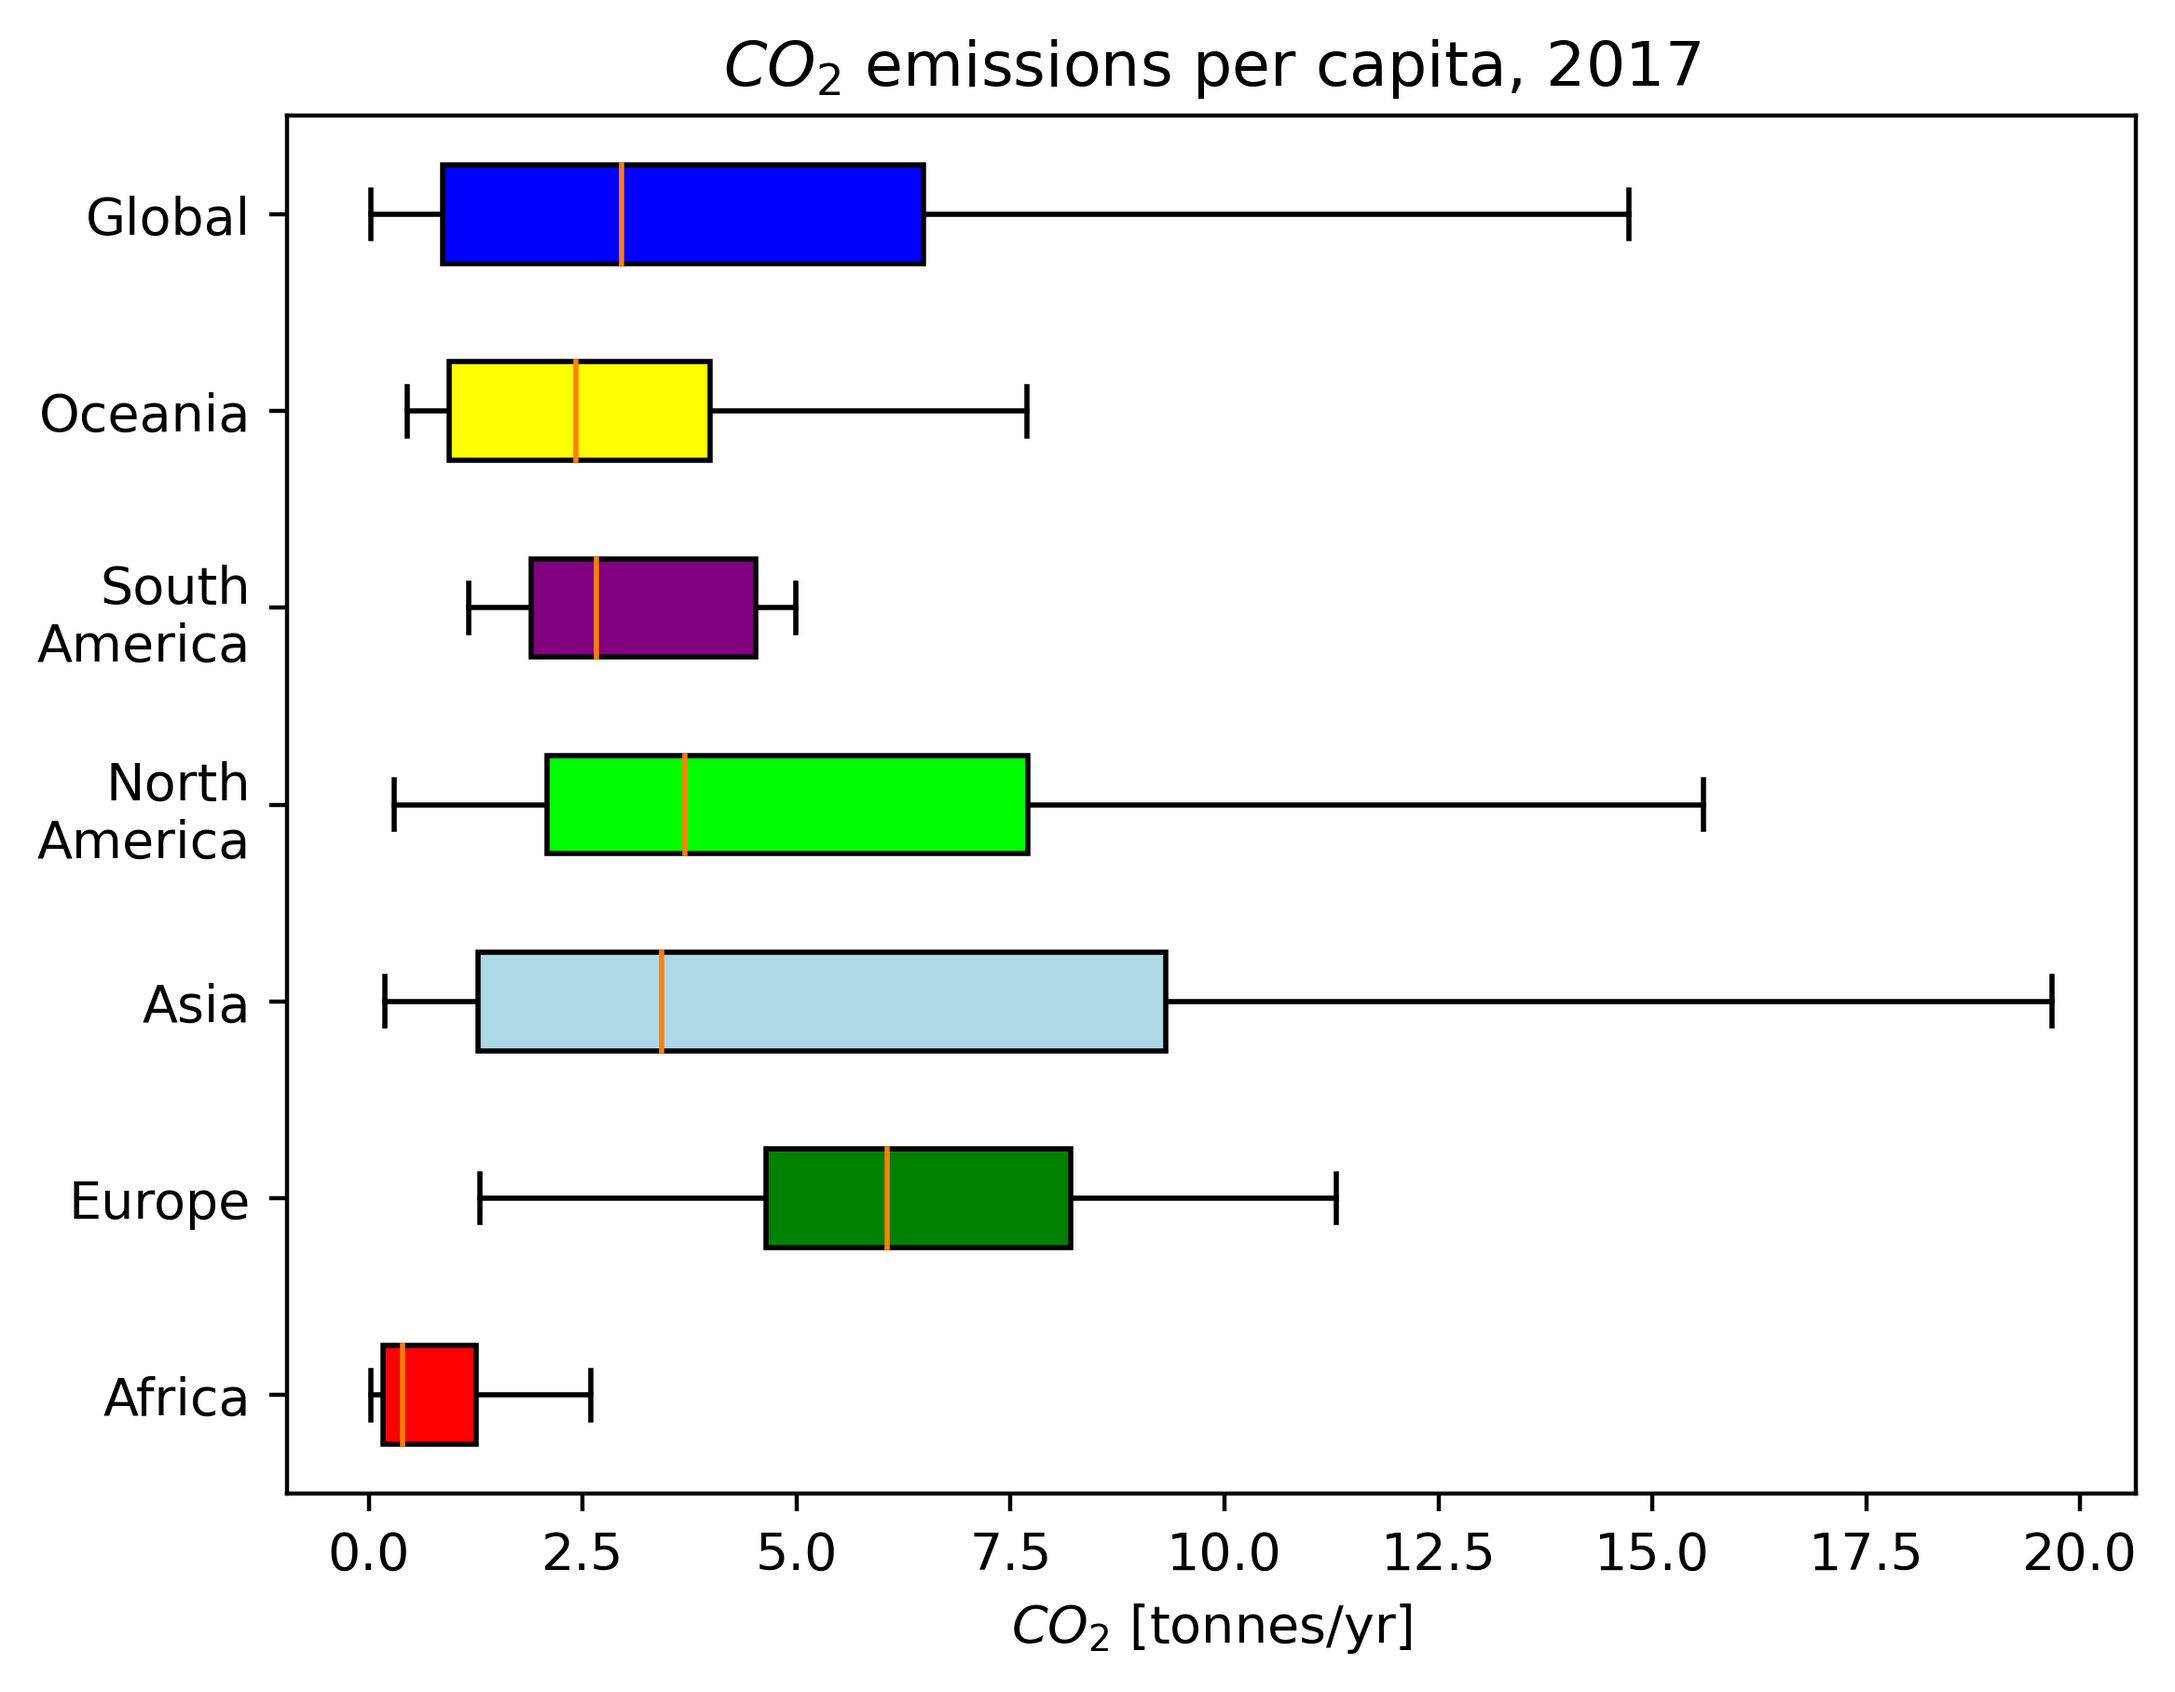
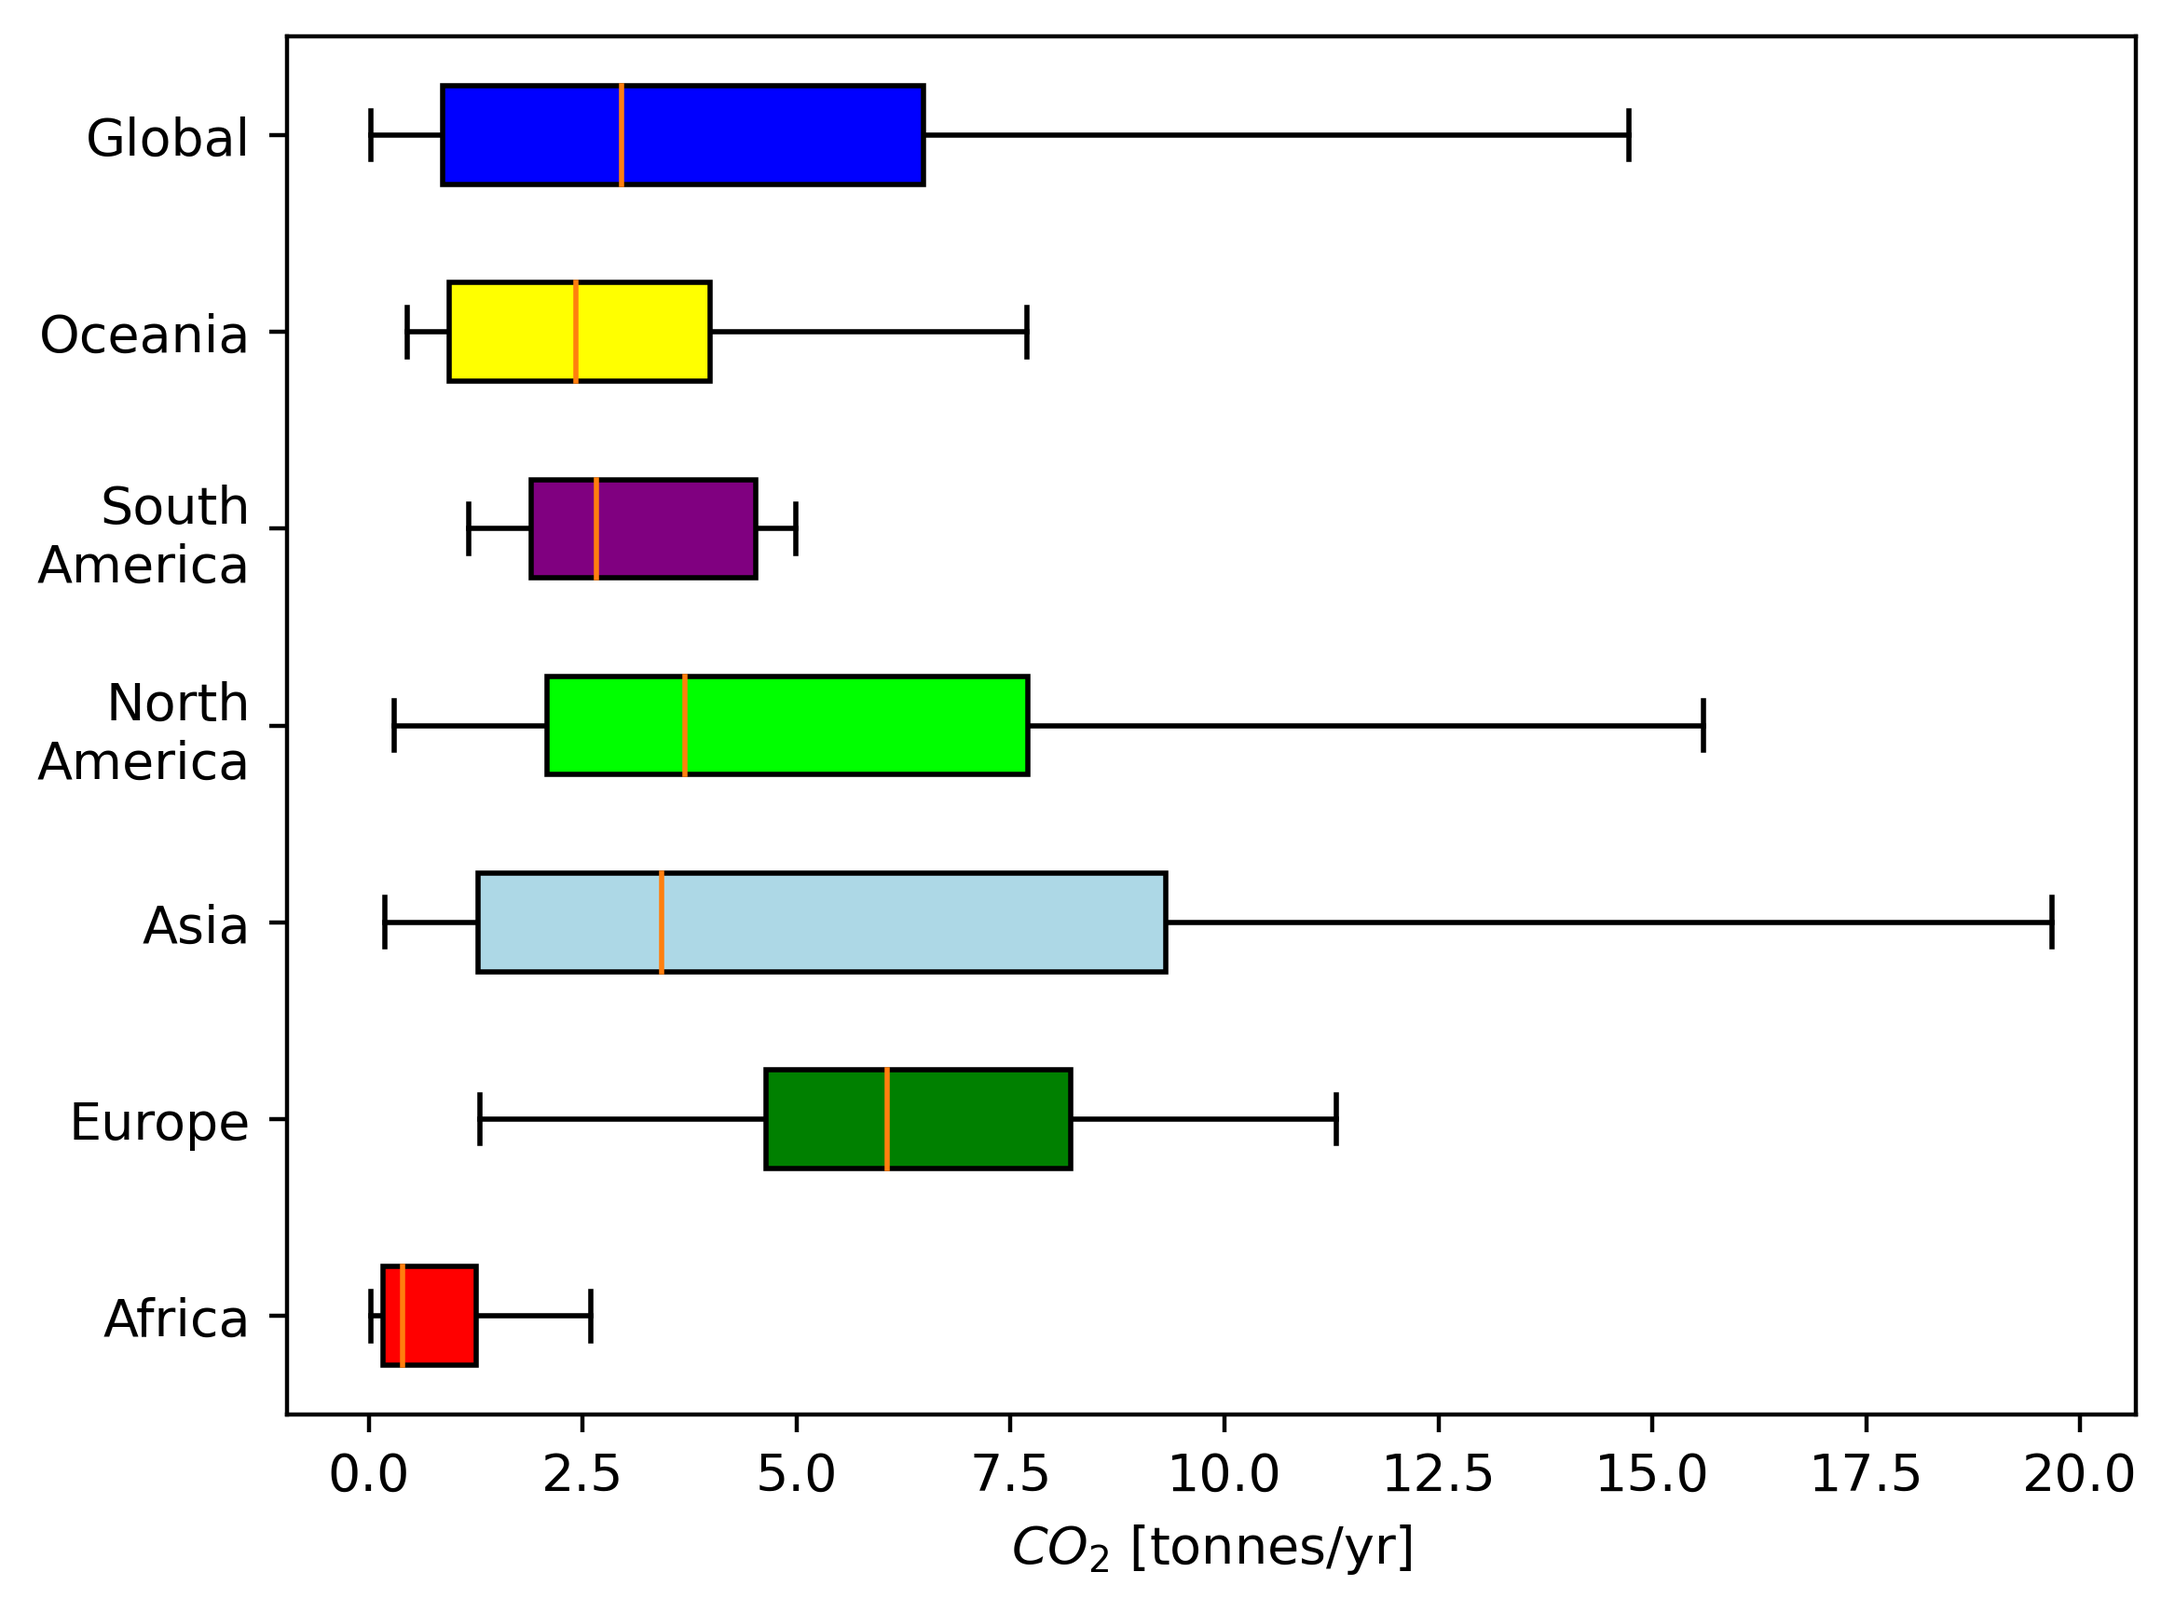
code finished

diff --git a/exercise2/ex2.py b/exercise2/ex2.py
@@ -1,7 +1,7 @@
 import numpy as np
 import pandas as pd
 import matplotlib.pyplot as plt
-
+import math
 """
 Data analysis exercise set 2 - Global CO2 emissions
 Author: Tom Carron
@@ -26,6 +26,8 @@ df_2017.to_csv("co2-data-2017.csv")
 df_2017_co2=df_2017["co2_per_capita"].loc[df_2017["co2_per_capita"].notnull()]
 print(df_2017_co2)
 #Data is prepped now calculate the standard deviation and median. Data needs to be sorted before calculating the median but np.median does this.
+mean=np.mean(df_2017_co2)
+print("mean is : ",mean)
 std=np.std(df_2017_co2)
 print("Standard deviation is : ", std)
 median=np.median(df_2017_co2)
@@ -40,26 +42,39 @@ convenient plot (maybe in a box plot). What are the limitations to this data red
 df_2017_co2_africa=df_2017_co2.loc[df_2017["continent"]=="Africa"]
 std_africa=np.std(df_2017_co2_africa)
 median_africa=np.median(df_2017_co2_africa)
+mean_africa=np.mean(df_2017_co2_africa)
 #Europe
 df_2017_co2_europe=df_2017_co2.loc[df_2017["continent"]=="Europe"]
 std_europe=np.std(df_2017_co2_europe)
 median_europe=np.median(df_2017_co2_europe)
+mean_europe=np.mean(df_2017_co2_europe)
 #Asia
 df_2017_co2_asia=df_2017_co2.loc[df_2017["continent"]=="Asia"]
 std_asia=np.std(df_2017_co2_asia)
 median_asia=np.median(df_2017_co2_asia)
+mean_asia=np.mean(df_2017_co2_asia)
 #North America
 df_2017_co2_NA=df_2017_co2.loc[df_2017["continent"]=="North America"]
 std_NA=np.std(df_2017_co2_NA)
 median_NA=np.median(df_2017_co2_NA)
+mean_NA=np.mean(df_2017_co2_NA)
 #South America
 df_2017_co2_SA=df_2017_co2.loc[df_2017["continent"]=="South America"]
 std_SA=np.std(df_2017_co2_SA)
 median_SA=np.median(df_2017_co2_SA)
+mean_SA=np.mean(df_2017_co2_SA)
 #Oceania
 df_2017_co2_oceania=df_2017_co2.loc[df_2017["continent"]=="Oceania"]
 std_oceania=np.std(df_2017_co2_oceania)
 median_oceania=np.median(df_2017_co2_oceania)
+mean_oceania=np.mean(df_2017_co2_oceania)
+
+labels=["Africa","Europe","Asia","North\nAmerica","South\nAmerica","Oceania","Global"]
+means=[round(mean_africa,3),round(mean_europe,3),round(mean_asia,3),round(mean_NA,3),round(mean_SA,3),round(mean_oceania,3),round(mean,3)]
+meds=[round(median_africa,3),round(median_europe,3),round(median_asia,3),round(median_NA,3),round(median_SA,3),round(median_oceania,3),round(median,3)]
+stds=[round(std_africa,3),round(std_europe,3),round(std_asia,3),round(std_NA,3),round(std_SA,3),round(std_oceania,3),round(std,3)]
+b_data={"Continent":labels,"Mean":means,"Median":meds,"Standard Deviation":stds}
+pd.DataFrame(b_data).to_csv("b_results.csv")
 
 data=[df_2017_co2_africa,df_2017_co2_europe,df_2017_co2_asia,df_2017_co2_NA,df_2017_co2_SA,df_2017_co2_oceania,df_2017_co2]
 labels=["Africa","Europe","Asia","North\nAmerica","South\nAmerica","Oceania","Global"]
@@ -72,7 +87,7 @@ for patch, color in zip(bp['boxes'], colors):
     patch.set_facecolor(color)
 ax.set_xlabel("$CO_2$ [tonnes/yr]",labelpad=4).set_rotation(0)
 #ax.set_xticklabels(labels,rotation=0)
-ax.set_title("$CO_2$ emissions per capita, 2017")
+#ax.set_title("$CO_2$ emissions per capita, 2017")
 plt.savefig("plots/boxplot.png",dpi=400,bbox_inches="tight")
 
 print("What are the limitations to this data reduction?")
@@ -86,6 +101,7 @@ this information for both the world and separated by continent. 20 points
 df_2017_cum=df_2017["co2"].loc[df_2017["co2"].notnull()]
 std_cum=np.std(df_2017_cum)
 median_cum=np.median(df_2017_cum)
+mean_cum=np.mean(df_2017_cum)
 print("Standard deviation is : ", std_cum)
 print("Median is : ", median_cum)
 
@@ -93,26 +109,39 @@ print("Median is : ", median_cum)
 df_2017_cum_africa=df_2017_cum.loc[df_2017["continent"]=="Africa"]
 std_africa_cum=np.std(df_2017_cum_africa)
 median_africa_cum=np.median(df_2017_cum_africa)
+mean_africa_cum=np.mean(df_2017_cum_africa)
 #Europe
 df_2017_cum_europe=df_2017_cum.loc[df_2017["continent"]=="Europe"]
 std_europe_cum=np.std(df_2017_cum_europe)
 median_europe_cum=np.median(df_2017_cum_europe)
+mean_europe_cum=np.mean(df_2017_cum_europe)
 #Asia
 df_2017_cum_asia=df_2017_cum.loc[df_2017["continent"]=="Asia"]
 std_asia_cum=np.std(df_2017_cum_asia)
 median_asia_cum=np.median(df_2017_cum_asia)
+mean_asia_cum=np.mean(df_2017_cum_asia)
 #North America
 df_2017_cum_NA=df_2017_cum.loc[df_2017["continent"]=="North America"]
 std_NA_cum=np.std(df_2017_cum_NA)
 median_NA_cum=np.median(df_2017_cum_NA)
+mean_NA_cum=np.mean(df_2017_cum_NA)
 #South America
 df_2017_cum_SA=df_2017_cum.loc[df_2017["continent"]=="South America"]
 std_SA_cum=np.std(df_2017_cum_SA)
 median_SA_cum=np.median(df_2017_cum_SA)
+mean_SA_cum=np.mean(df_2017_cum_SA)
 #Oceania
 df_2017_cum_oceania=df_2017_cum.loc[df_2017["continent"]=="Oceania"]
 std_oceania_cum=np.std(df_2017_cum_oceania)
 median_oceania_cum=np.median(df_2017_cum_oceania)
+mean_oceania_cum=np.mean(df_2017_cum_oceania)
+
+labels_cum=["Africa","Europe","Asia","North\nAmerica","South\nAmerica","Oceania","Global"]
+means_cum=[round(mean_africa_cum,3),round(mean_europe_cum,3),round(mean_asia_cum,3),round(mean_NA_cum,3),round(mean_SA_cum,3),round(mean_oceania_cum,3),round(mean_cum,3)]
+meds_cum=[round(median_africa_cum,3),round(median_europe_cum,3),round(median_asia_cum,3),round(median_NA_cum,3),round(median_SA_cum,3),round(median_oceania_cum,3),round(median_cum,3)]
+stds_cum=[round(std_africa_cum,3),round(std_europe_cum,3),round(std_asia_cum,3),round(std_NA_cum,3),round(std_SA_cum,3),round(std_oceania_cum,3),round(std_cum,3)]
+c_data={"Continent":labels_cum,"Mean":means_cum,"Median":meds_cum,"Standard Deviation":stds_cum}
+pd.DataFrame(c_data).to_csv("c_results.csv")
 
 data_cum=[df_2017_cum_africa,df_2017_cum_europe,df_2017_cum_asia,df_2017_cum_NA,df_2017_cum_SA,df_2017_cum_oceania,df_2017_cum]
 labels=["Africa","Europe","Asia","North\nAmerica","South\nAmerica","Oceania","Global"]
@@ -125,7 +154,7 @@ for patch, color in zip(bp1['boxes'], colors):
     patch.set_facecolor(color)
 ax1.set_xlabel("$CO_2$ [tonnes/yr]",labelpad=4).set_rotation(0)
 #ax.set_xticklabels(labels,rotation=0)
-ax1.set_title("$CO_2$ emissions (cumulative), 2017")
+#ax1.set_title("$CO_2$ emissions (cumulative), 2017")
 plt.savefig("plots/boxplot_cumulative.png",dpi=400,bbox_inches="tight")
 
 """
@@ -139,7 +168,8 @@ df2=df.loc[(df["country"]=="United States") | (df["country"]=="United Kingdom") 
 print("years min=",np.min(df2["year"].to_numpy()),"years max=",np.max(df2["year"].to_numpy()))
 #creating an array of all the years.
 years=[]
-k=np.min(df2["year"].to_numpy())
+#k=np.min(df2["year"].to_numpy())
+k=1899 #first year all 4 countries have data
 while k < (np.max(df2["year"].to_numpy())+1):
     years.append(k)
     k+=1
@@ -155,24 +185,27 @@ for i in range(len(years)):
     means.append(np.mean(year_total))
     stds.append(np.std(year_total))
 
+print("peak emissions",years[int(means.index(np.max(means)))])
 """
 NEED TO GET RID OF YEARS WHERE DATA IS NOT AVAILABLE FOR ALL 4 COUNTRIES
 """
-for i in range(len(years)):
-    print("year=",years[i],"mean=",means[i],"std=",stds[i])
-
-
+#for i in range(len(years)):
+    #print("year=",years[i],"mean=",means[i],"std=",stds[i])
+print("us min year",np.min(df2.loc[(df2["country"]=="United States")]["year"].to_numpy()))
+print("uk min year",np.min(df2.loc[(df2["country"]=="United Kingdom")]["year"].to_numpy()))
+print("germany min year",np.min(df2.loc[(df2["country"]=="Germany")]["year"].to_numpy()))
+print("CHina min year",np.min(df2.loc[(df2["country"]=="China")]["year"].to_numpy()))
 fig2, ax2=plt.subplots(1)
 ax2.plot(years,means)
 ax2.set_ylabel("$CO_2$ (mean) [tonnes/yr]",labelpad=4).set_rotation(90)
 ax2.set_xlabel("year")
-ax2.set_title("mean $CO_2$ emissions of Germany,US,UK and China")
+#ax2.set_title("mean $CO_2$ emissions of Germany,US,UK and China")
 plt.savefig("plots/means_yearly.png",dpi=400,bbox_inches="tight")
 
 fig3, ax3=plt.subplots(1)
 ax3.plot(years,stds)
 ax3.set_ylabel("$CO_2$ (std) [tonnes/yr]",labelpad=4).set_rotation(90)
 ax3.set_xlabel("year")
-ax3.set_title("std $CO_2$ emissions of Germany,US,UK and China")
+#ax3.set_title("std $CO_2$ emissions of Germany,US,UK and China")
 plt.savefig("plots/std_yearly.png",dpi=400,bbox_inches="tight")
 plt.show()
